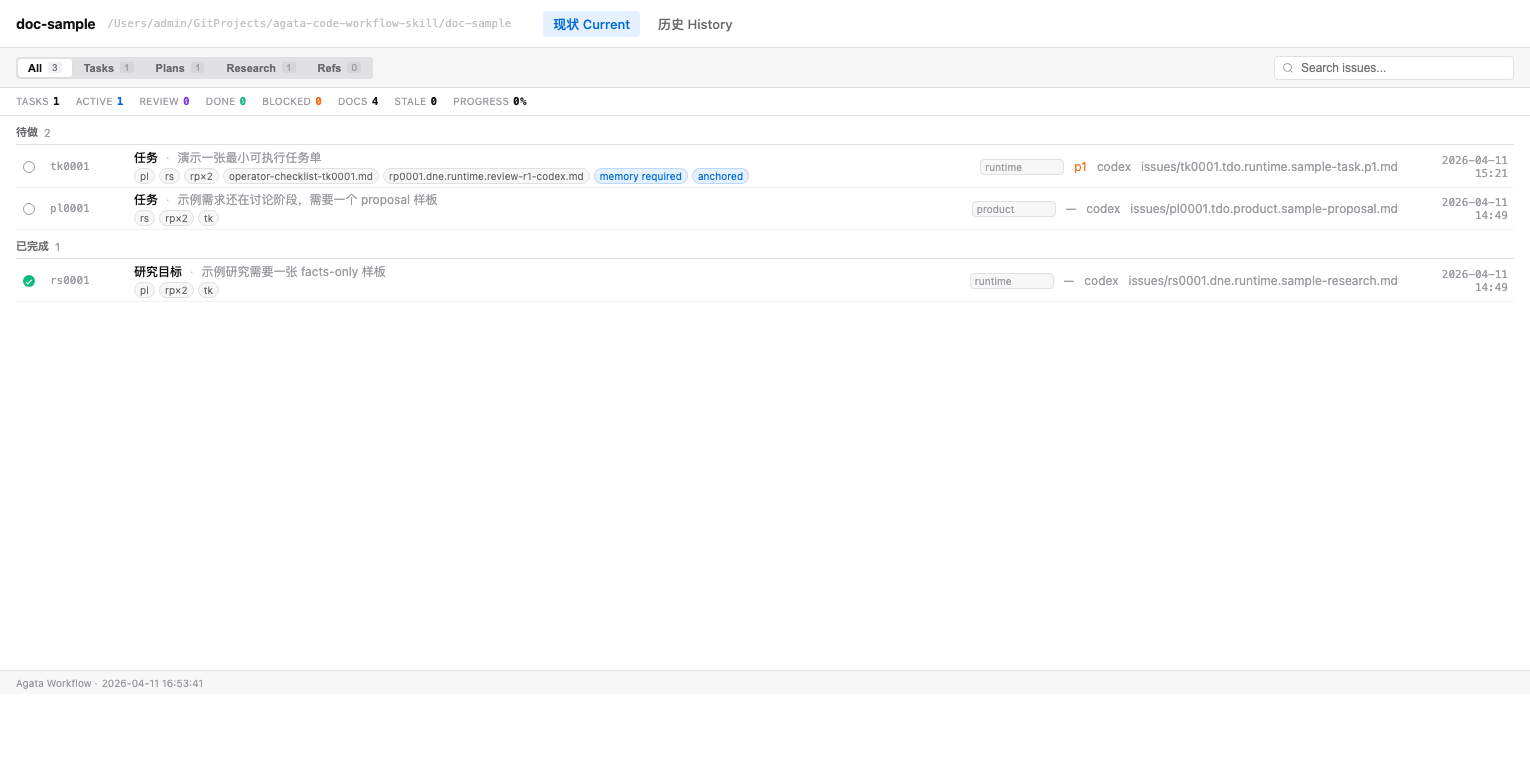
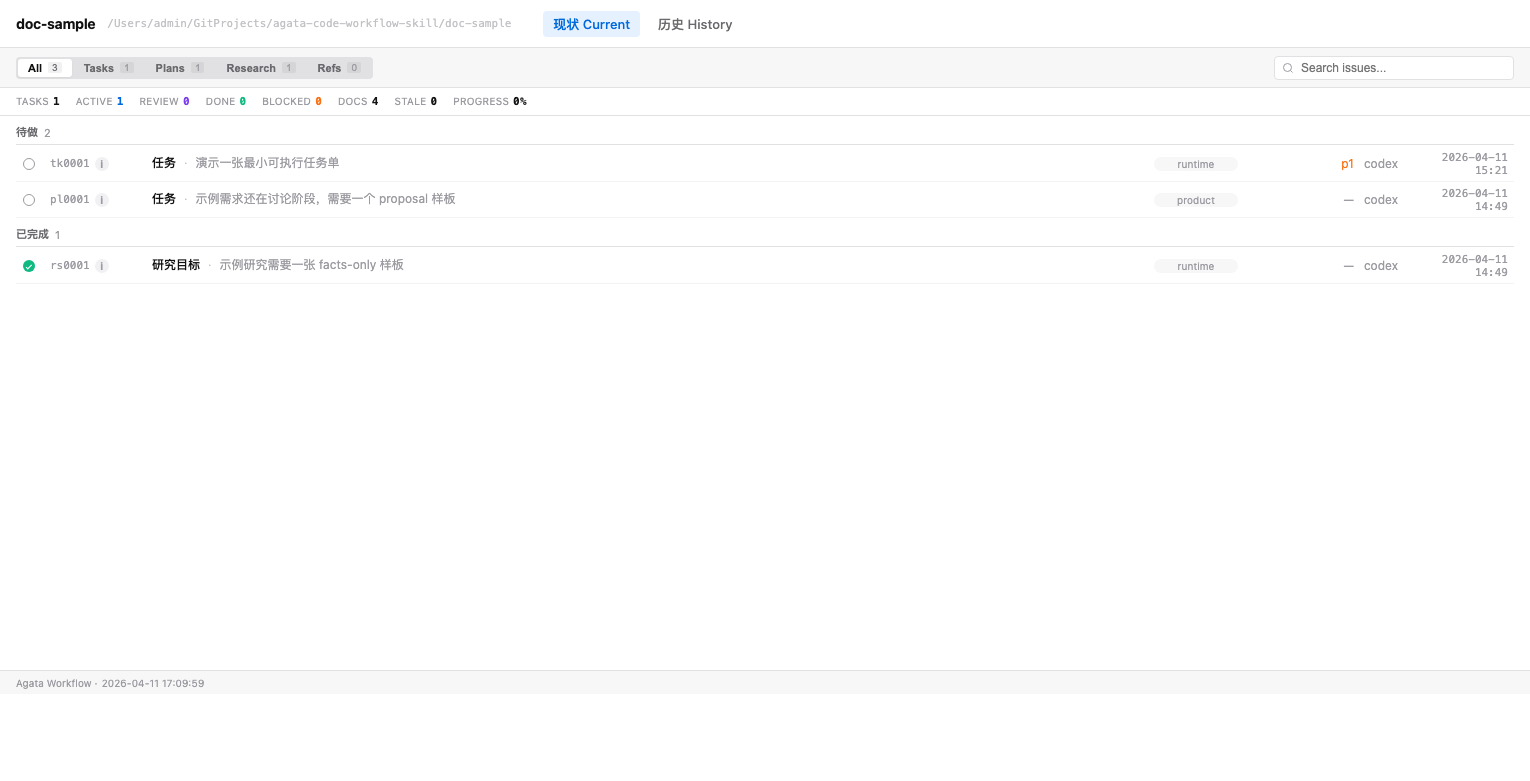
fix(skill): finalize progress viewer lock

diff --git a/agata-code-workflow/templates/progress-view.html b/agata-code-workflow/templates/progress-view.html
@@ -229,7 +229,7 @@
 
       .issue-row {
         display: grid;
-        grid-template-columns: 18px 74px minmax(0, 1fr) 84px minmax(150px, auto) 100px;
+        grid-template-columns: 18px 92px minmax(0, 1fr) 84px minmax(150px, auto) 100px;
         gap: 10px;
         align-items: center;
         padding: 3px 6px;
@@ -238,9 +238,14 @@
         transition: background 0.05s;
         min-height: 36px;
         font-size: 12px;
+        position: relative;
+        z-index: 1;
       }
 
-      .issue-row:hover { background: var(--bg-hover); }
+      .issue-row:hover {
+        background: var(--bg-hover);
+        z-index: 12;
+      }
 
       .issue-status-icon {
         width: 14px; height: 14px;
@@ -248,6 +253,67 @@
       }
 
       .issue-id { font-family: var(--font-mono); font-size: 11px; color: var(--text-quiet); }
+
+      .issue-id-wrap {
+        position: relative;
+        display: flex;
+        align-items: center;
+        gap: 5px;
+        min-width: 0;
+        z-index: 14;
+      }
+
+      .issue-info {
+        position: relative;
+        display: inline-flex;
+        align-items: center;
+        justify-content: center;
+        width: 14px;
+        height: 14px;
+        border-radius: 50%;
+        background: var(--bg-hover);
+        color: var(--text-quiet);
+        font-family: var(--font-sans);
+        font-size: 10px;
+        font-weight: 700;
+        cursor: help;
+        flex-shrink: 0;
+      }
+
+      .issue-tooltip {
+        position: absolute;
+        left: 0;
+        top: calc(100% + 8px);
+        min-width: 200px;
+        max-width: 320px;
+        padding: 8px 10px;
+        border-radius: 8px;
+        background: #eef6ff;
+        color: #174ea6;
+        border: 1px solid #cfe3ff;
+        font-family: var(--font-sans);
+        font-size: 11px;
+        line-height: 1.35;
+        box-shadow: 0 8px 24px rgba(23, 78, 166, 0.12);
+        opacity: 0;
+        pointer-events: none;
+        transition: opacity 0.08s ease;
+        z-index: 40;
+      }
+
+      .issue-info:hover .issue-tooltip,
+      .issue-info:focus-visible .issue-tooltip {
+        opacity: 1;
+      }
+
+      .tooltip-group + .tooltip-group {
+        margin-top: 6px;
+      }
+
+      .tooltip-label {
+        color: #4f7dcf;
+        margin-right: 6px;
+      }
 
       .issue-content {
         min-width: 0;
@@ -287,9 +353,15 @@
       }
 
       .issue-board {
-        font-size: 10px; color: var(--text-quiet); padding: 1px 4px;
-        background: var(--bg-side); border-radius: var(--radius-sm);
-        border: 1px solid var(--border-quiet);
+        display: flex;
+        align-items: center;
+        justify-content: center;
+        text-align: center;
+        font-size: 10px;
+        color: var(--text-quiet);
+        padding: 1px 6px;
+        background: var(--bg-side);
+        border-radius: 999px;
       }
 
       .issue-meta {
@@ -319,6 +391,12 @@
         color: var(--accent);
         background: var(--accent-soft);
         border-color: rgba(0, 106, 220, 0.18);
+      }
+
+      .signal-chip.warning {
+        color: #b45309;
+        background: #fff7ed;
+        border-color: #fed7aa;
       }
 
       /* Status Icons */
@@ -354,7 +432,7 @@
 
       @media (max-width: 980px) {
         .issue-row {
-          grid-template-columns: 18px 66px minmax(0, 1fr) 80px;
+          grid-template-columns: 18px 82px minmax(0, 1fr) 80px;
           grid-template-areas:
             "icon id content date"
             ". . meta meta";
@@ -512,6 +590,63 @@
         return items.map(item => `<span class="signal-chip ${accent ? 'accent' : ''}">${escapeHtml(item)}</span>`).join('');
       }
 
+      function warningChips(items) {
+        if (!items || items.length === 0) return '';
+        return items.map(item => `<span class="signal-chip warning">${escapeHtml(item)}</span>`).join('');
+      }
+
+      function infoGroups(issue, relationBits, evidenceBits) {
+        const groups = [];
+        if (relationBits.length) {
+          groups.push({ label: '关联', items: relationBits });
+        }
+        const linkBits = (issue.relation?.linked_bits || []).slice(0, 5);
+        if (linkBits.length) {
+          groups.push({ label: '链接', items: linkBits });
+        }
+        if (evidenceBits.length) {
+          groups.push({ label: '说明', items: evidenceBits });
+        }
+        return groups;
+      }
+
+      function infoButton(issue, relationBits, evidenceBits) {
+        const groups = infoGroups(issue, relationBits, evidenceBits);
+        if (groups.length === 0) return '';
+        return `
+          <span class="issue-info" tabindex="0" aria-label="更多信息" onclick="event.stopPropagation()">
+            i
+            <span class="issue-tooltip">
+              ${groups.map(group => `
+                <div class="tooltip-group">
+                  <span class="tooltip-label">${escapeHtml(group.label)}</span>
+                  <span>${escapeHtml(group.items.join(' · '))}</span>
+                </div>
+              `).join('')}
+            </span>
+          </span>
+        `;
+      }
+
+      function warningBits(issue) {
+        const warnings = [];
+        const brokenLinks = (issue.links || []).filter(item => !item.exists).length;
+        const linkedRpCount = (issue.links || []).filter(item => /^rp\d{4,5}\./.test(item.label || '')).length;
+
+        if (brokenLinks > 0) {
+          warnings.push(brokenLinks === 1 ? 'broken link' : `broken links ×${brokenLinks}`);
+        }
+        if ((issue.memory === 'required' || issue.memory === 'done') && !issue.has_memory_anchor) {
+          warnings.push('memory unanchored');
+        }
+        if (issue.kind === 'tk' && issue.state === 'rvw') {
+          if (!issue.verify) warnings.push('verify missing');
+          if (!issue.code_version) warnings.push('code missing');
+          if (linkedRpCount === 0) warnings.push('rp missing');
+        }
+        return warnings;
+      }
+
       function historyEventRow(event) {
         return {
           ...event,
@@ -571,35 +706,34 @@
 
       function renderIssueRow(issue) {
         const priorityClass = issue.priority ? `prio-${issue.priority}` : '';
-        const relationBits = [
-          ...(issue.relation?.derived_bits || []).slice(0, 3),
-          ...(issue.relation?.linked_bits || []).slice(0, 2),
-        ];
+        const relationBits = [...(issue.relation?.derived_bits || []).slice(0, 5)];
         const evidenceBits = [
           issue.verify ? 'verify' : '',
-          issue.code_version ? 'code' : '',
+          issue.code_version ? `code ${issue.code_version}` : '',
           issue.memory && issue.memory !== 'none' ? `memory ${issue.memory}` : '',
           issue.has_memory_anchor ? 'anchored' : '',
         ].filter(Boolean);
+        const warnings = warningBits(issue);
         return `
           <div class="issue-row" data-url="${escapeHtml(issue.file_url || '')}" onclick="if (this.dataset.url) window.open(this.dataset.url, '_blank')">
             ${renderStatusIcon(issue.state)}
-            <div class="issue-id">${escapeHtml(issue.doc_id)}</div>
+            <div class="issue-id-wrap">
+              <div class="issue-id">${escapeHtml(issue.doc_id)}</div>
+              ${infoButton(issue, relationBits, evidenceBits)}
+            </div>
             <div class="issue-content">
               <div class="issue-mainline">
                 <div class="issue-title">${escapeHtml(issue.title)}</div>
                 ${issue.summary ? `<span class="issue-summary-sep">·</span><div class="issue-summary">${escapeHtml(issue.summary)}</div>` : ''}
               </div>
               <div class="issue-detailline">
-                ${signalChips(relationBits)}
-                ${signalChips(evidenceBits, true)}
+                ${warningChips(warnings)}
               </div>
             </div>
             <div class="issue-board">${escapeHtml(issue.board || '—')}</div>
             <div class="issue-meta">
               <span class="${priorityClass}">${escapeHtml(issue.priority || '—')}</span>
               <span class="meta-item">${escapeHtml(issue.assignee || issue.owner || '—')}</span>
-              ${issue.path ? `<span class="meta-item">${escapeHtml(issue.path)}</span>` : ''}
             </div>
             <div class="issue-id" style="text-align: right;">${escapeHtml(issue.modified_display)}</div>
           </div>
